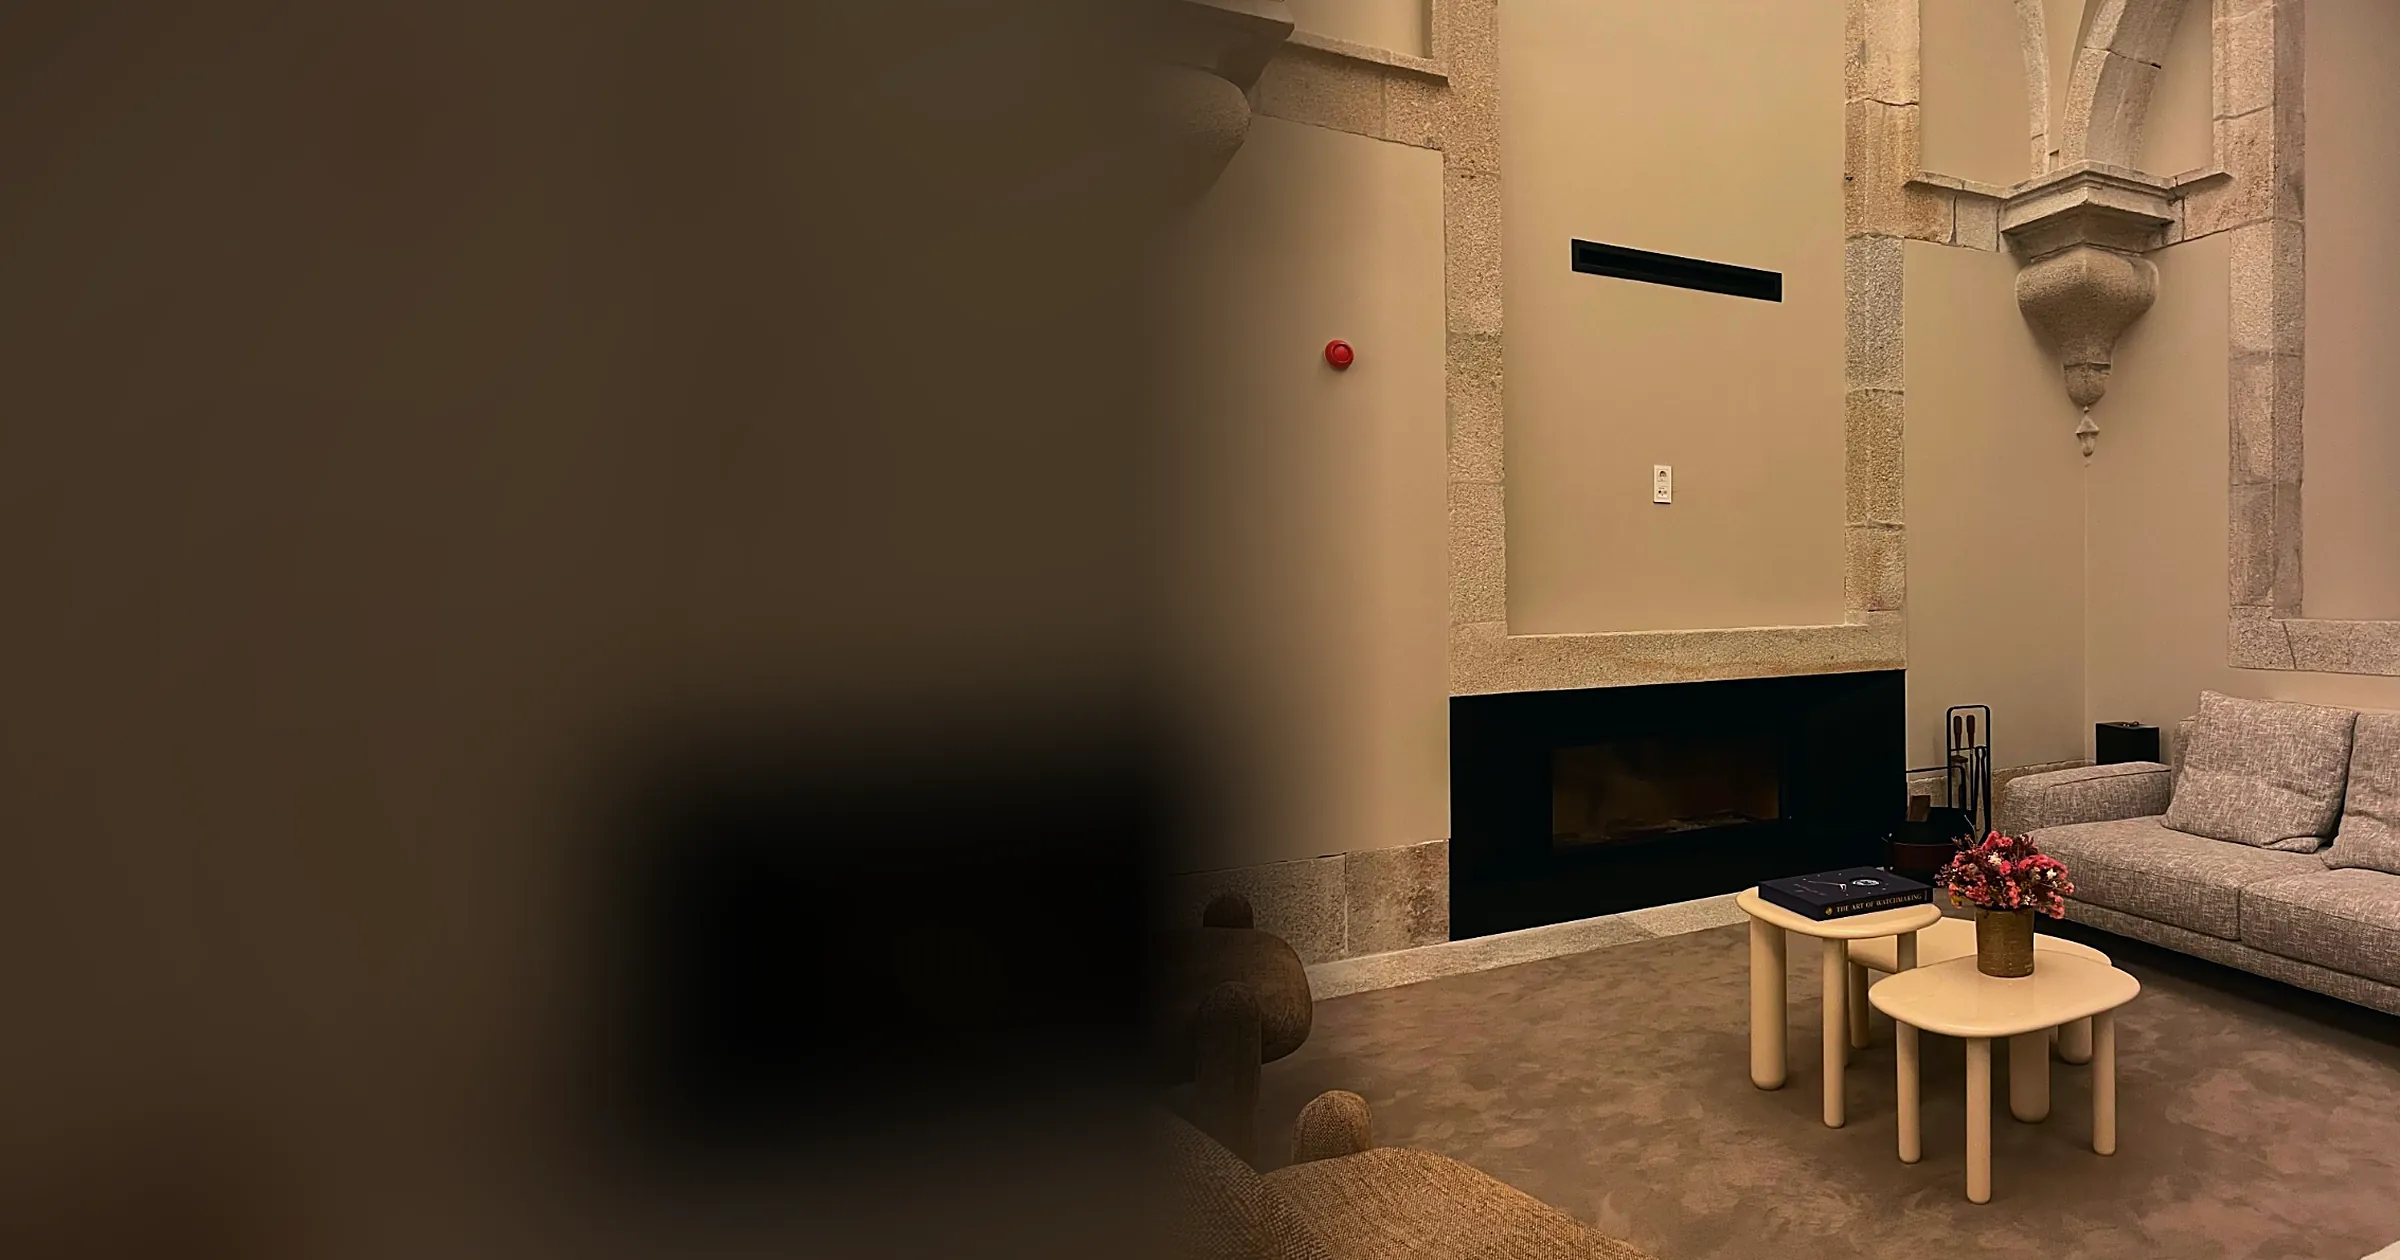
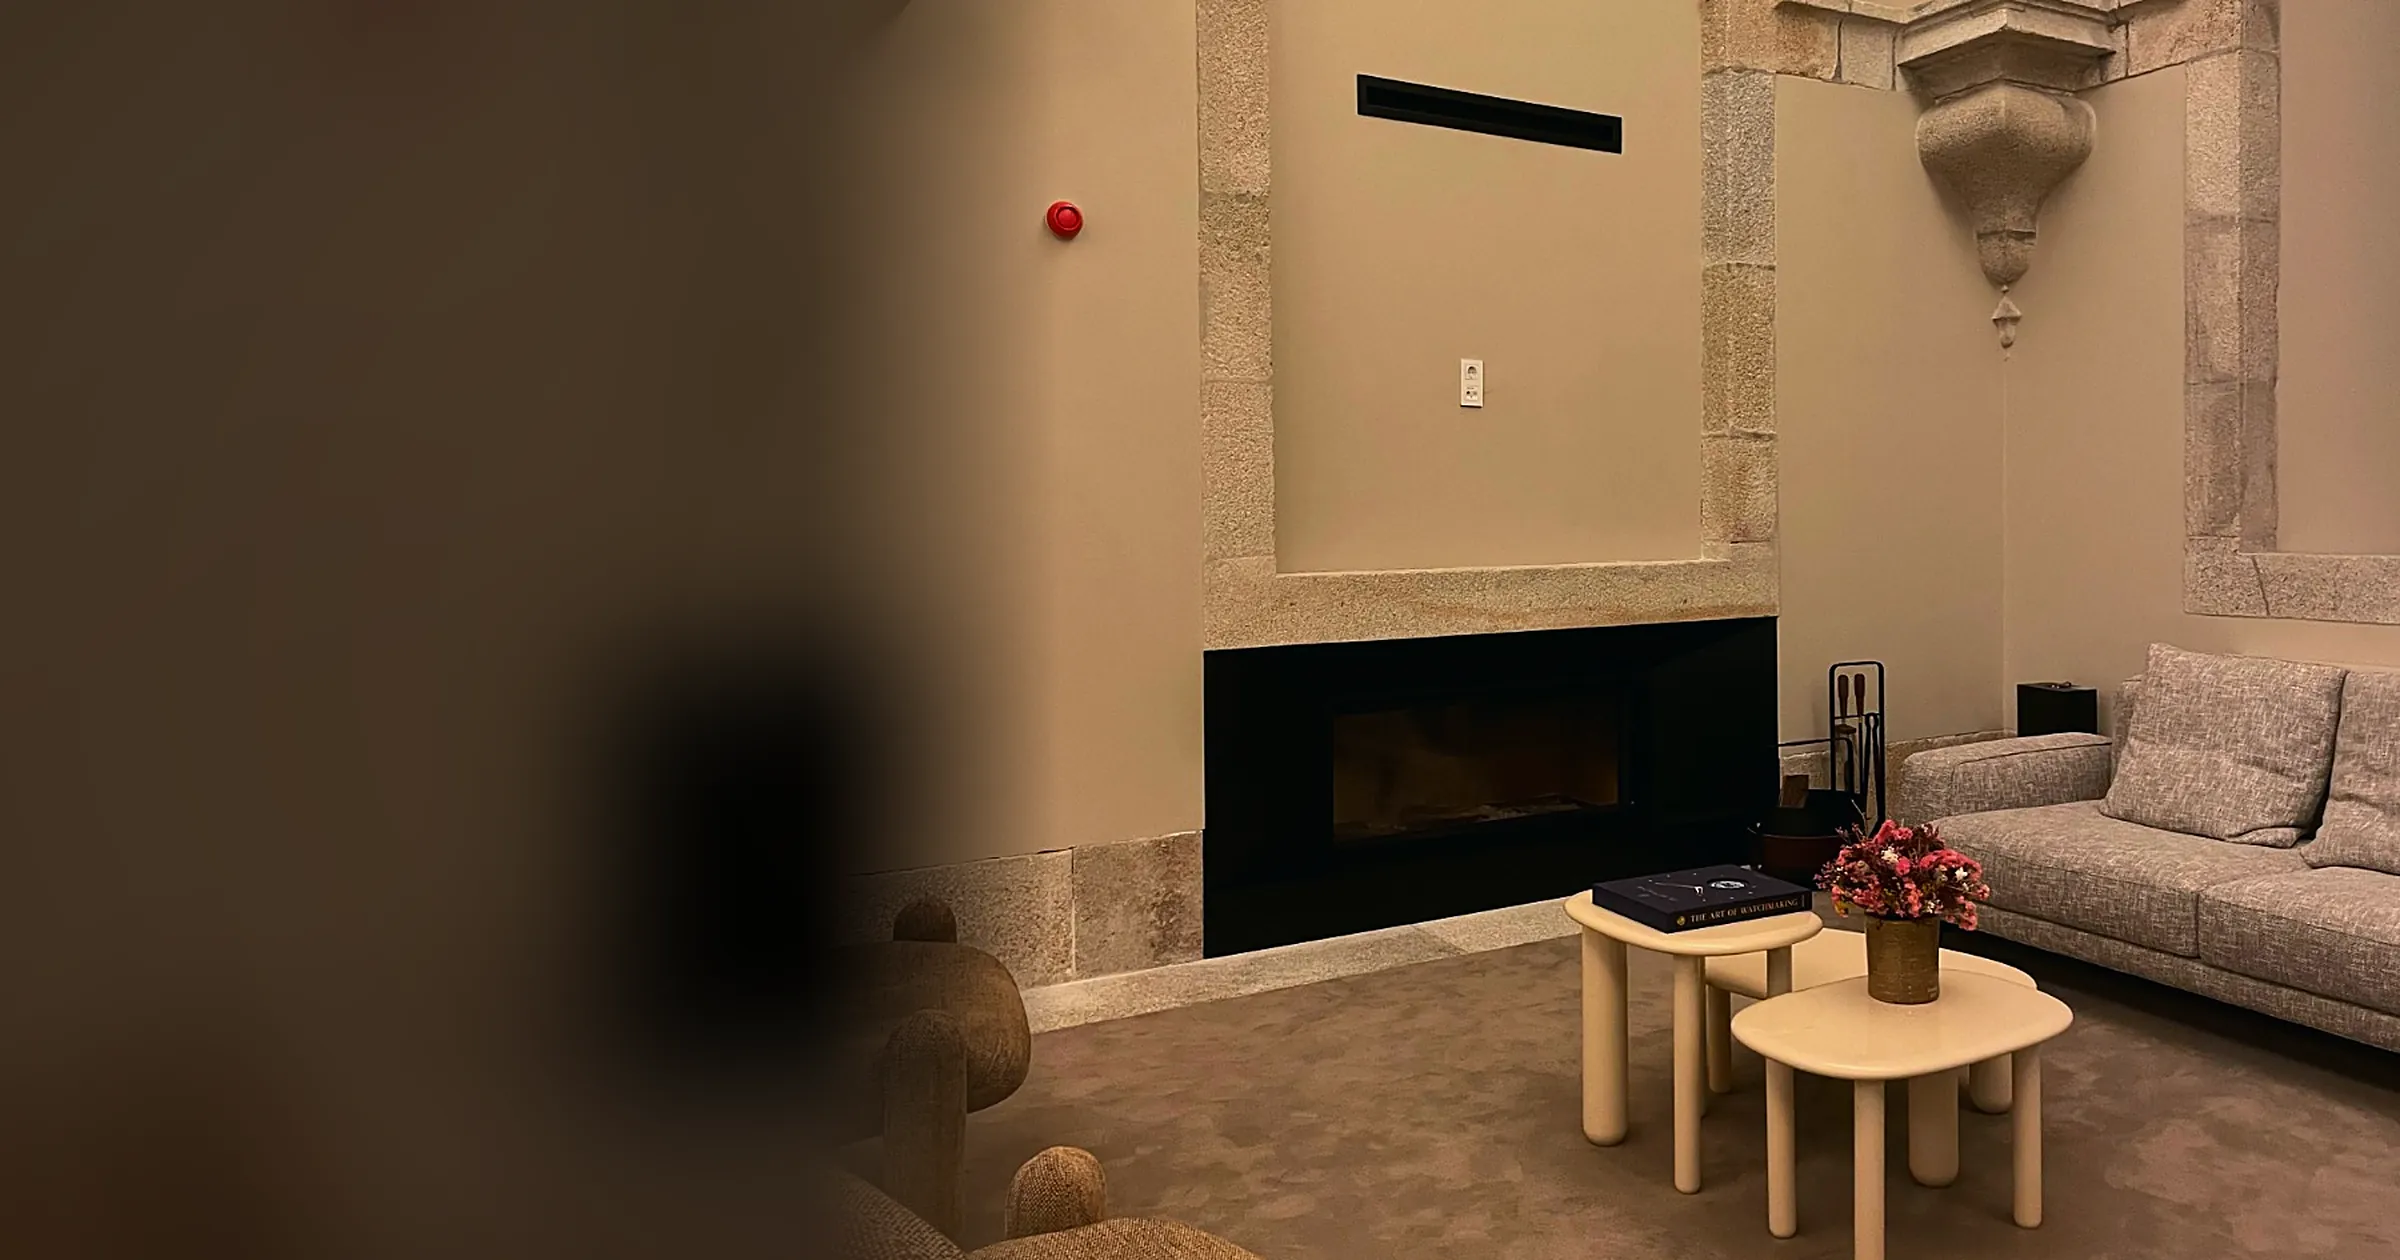
Fundo da página inicial: fotografias verticais recortadas para encherem a largura, como a primeira

diff --git a/src/components/Hero.tsx b/src/components/Hero.tsx
@@ -13,9 +13,9 @@ import { getI18n } from "@/lib/i18n/server";
 // Para mudar o número de fotografias, ajustar também a duração da animação no CSS.
 const SLIDES = [
   { src: "/images/hero/obra-sala-rustica.webp", pos: "78% 50%" },
-  { src: "/images/hero/obra-convento.webp", pos: "72% 50%" },
-  { src: "/images/hero/obra-lareira-suspensa.webp", pos: "80% 50%" },
-  { src: "/images/hero/obra-painel-madeira.webp", pos: "72% 50%" },
+  { src: "/images/hero/obra-convento.webp", pos: "61% 50%" },
+  { src: "/images/hero/obra-lareira-suspensa.webp", pos: "76% 50%" },
+  { src: "/images/hero/obra-painel-madeira.webp", pos: "65% 50%" },
 ];
 
 export default async function Hero() {
